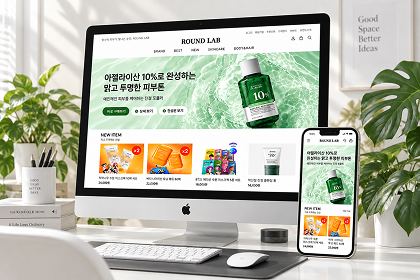
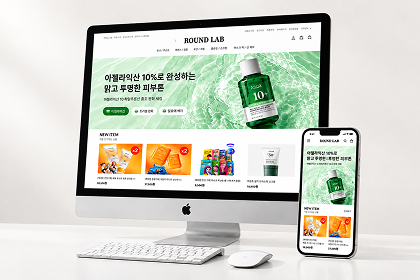
26-10-06(3)

diff --git a/index.html b/index.html
@@ -7,72 +7,27 @@
     <link rel="stylesheet" href="./css/reset.css">
     <link rel="stylesheet" href="./css/font.css">
     <link rel="stylesheet" href="./css/style.css">
+    <link rel="stylesheet" href="./css/modal.css">
     <script src="https://kit.fontawesome.com/195e39de43.js" crossorigin="anonymous"></script>
-
-    <style>
-        .modal-wrap {
-            position: fixed;
-            top: 0;
-            left: 0;
-            right: 0;
-            bottom: 0;
-            z-index: 9999;
-            background-color: rgba(0, 0, 0, 0.8);
-            padding: 100px 20px;
-            overflow-y: auto;
-        }
-        .modal-con {
-            background-color: #fff;
-            padding: 100px 40px;
-            max-width: 1280px;
-            margin: 0 auto;
-        }
-
-        .modal-wrap .btn-close {
-            position: fixed;
-            top: 50px;
-            right: 50px;
-            cursor: pointer;
-            width: 50px;
-            height: 50px;
-            border-radius: 50%;
-            border: none;
-        }
-        .modal-link a {
-            display: block;
-            width: 160px;
-            line-height: 60px;
-            background-color: #eee;
-            text-align: center;
-            border-radius: 10px;
-            margin-bottom: 30px;
-        }
-
-
-        /* 제이쿼리 */
-        .modal-wrap {
-            display: none;
-        }
-    </style>
 </head>
 <body>
+    <header>
+        <nav class="gnb">
+            <ul>
+                <li><a href="#hero">홈</a></li>
+                <li><a href="#about">소개</a></li>
+                <li><a href="#projects">프로젝트</a></li>
+                <li><a href="#contact">연락처</a></li>
+            </ul>
+        </nav>
+    </header>
     <!--main-->
     <main>
-        <section class="hero">
+        <section class="hero" id="hero">
             <div class="hero-bg" aria-hidden="true"></div>
             <div class="hero-particles" aria-hidden="true"></div>
             <div class="hero-line hero-line-1" aria-hidden="true"></div>
             <div class="hero-line hero-line-2" aria-hidden="true"></div>
-            <header>
-                <nav class="gnb">
-                    <ul>
-                        <li><a href="#">홈</a></li>
-                        <li><a href="#">소개</a></li>
-                        <li><a href="#">프로젝트</a></li>
-                        <li><a href="#">연락처</a></li>
-                    </ul>
-                </nav>
-            </header>
             <div class="container">
                 <div class="text-area">
                     <p class="caption">UI/UX WEB DESIGNER PORTFOLIO</p>
@@ -92,7 +47,7 @@
         <!--#main-->
 
         <!--aboutme-->
-        <section class="about-me">
+        <section class="about-me" id="about">
             <div class="container">
                 <div class="tit">
                     <i class="fa-solid fa-circle"></i>
@@ -174,20 +129,20 @@
                             </div>
                             <ul>
                                 <li>
-                                    <img src="./img/skill1.png" alt="Figma">
-                                    <span>Figma</span>
+                                    <img src="./img/skill1.png" alt="Photoshop">
+                                    <span>Photoshop</span>
                                 </li>
                                 <li>
                                     <img src="./img/skill2.png" alt="Illustrator">
                                     <span>Illustrator</span>
                                 </li>
                                 <li>
-                                    <img src="./img/skill3.png" alt="Photoshop">
-                                    <span>Photoshop</span>
+                                    <img src="./img/skill3.png" alt="InDesign">
+                                    <span>InDesign</span>
                                 </li>
                                 <li>
-                                    <img src="./img/skill4.png" alt="InDesign">
-                                    <span>InDesign</span>
+                                    <img src="./img/skill4.png" alt="Figma">
+                                    <span>Figma</span>
                                 </li>
                                 <li>
                                     <img src="./img/skill5.png" alt="HTML">
@@ -198,7 +153,11 @@
                                     <span>CSS</span>
                                 </li>
                                 <li>
-                                    <img src="./img/skill7.png" alt="AI">
+                                    <img src="./img/skill7.png" alt="JavaScript">
+                                    <span>JavaScript</span>
+                                </li>
+                                <li>
+                                    <img src="./img/skill8.png" alt="AI">
                                     <span>AI</span>
                                 </li>
                             </ul>
@@ -322,7 +281,7 @@
         <!--#projects-->
 
         <!--contact-->
-        <section class="contact">
+        <section class="contact" id="contact">
             <div class="container">
                 <div class="tit">
                     <i class="fa-solid fa-circle"></i>

diff --git a/css/style.css b/css/style.css
@@ -19,8 +19,11 @@
     margin: 0 auto;
 }
 section {
-    padding: 8rem 0;
+    padding: 10rem 0 8rem;
     width: 100%;
+}
+.contact {
+    height: 919px;
 }
 html {
     scroll-behavior: smooth;
@@ -28,28 +31,34 @@ html {
 
 
 /* main */
-.hero header {
+
+header {
     width: 100%;
+    height: 6rem;
+
     display: flex;
     justify-content: center;
     align-items: center;
+
+    position: fixed;
+    top: 0;
+    left: 0;
+    z-index: 1000;
+
+    background-color: #fff;
 }
-.hero header .gnb ul {
+header .gnb ul {
     display: flex;
     gap: 10rem;
-    padding-top: 4rem;
 }
-.hero header .gnb li {
-    position: relative;
-}
-.hero header .gnb li a {
+header .gnb li a {
     font-size: 2rem;
     font-weight: 600;
 }
-.hero header .gnb li:hover {
+header .gnb li:hover {
     color: #CD3131;
 }
-.hero header .gnb .on:hover::after {
+header .gnb .on:hover::after {
     content: "";
     position: absolute;
     left: 50%;
@@ -71,7 +80,7 @@ html {
 }
 .hero .text-area {
     padding-left: 10rem;
-    padding-top: 22rem;
+    padding-top: 30rem;
 }
 .hero .text-area p {
     font-weight: 500;
@@ -218,6 +227,9 @@ html {
 .about-me .about-right .info-list .info-item .info-title p {
     font-weight: 600;
 }
+.about-me .about-right .info-list .info-item .info-title .fa-circle {
+    z-index: 1000000;
+}
 .about-me .about-right .info-list .info-item .info-title i {
     font-size: 0.8rem;
 }
@@ -227,11 +239,11 @@ html {
 .about-me .about-right .info-list .info-item::before {
     content: "";
     position: absolute;
-    left: 0.45rem;
+    left: 0.5rem;
     top: 1.4rem;
     width: 1px;
     height: 27rem;
-    background-color: #6E6250;
+    background-color: #D2C7A8;
 }
 .about-me .about-right .info-list .info-item .info-detail {
     display: flex;

diff --git a/css/modal.css b/css/modal.css
@@ -1,0 +1,43 @@
+.modal-wrap {
+            position: fixed;
+            top: 0;
+            left: 0;
+            right: 0;
+            bottom: 0;
+            z-index: 9999;
+            background-color: rgba(0, 0, 0, 0.8);
+            padding: 100px 20px;
+            overflow-y: auto;
+        }
+        .modal-con {
+            background-color: #fff;
+            padding: 100px 40px;
+            max-width: 1280px;
+            margin: 0 auto;
+        }
+
+        .modal-wrap .btn-close {
+            position: fixed;
+            top: 50px;
+            right: 50px;
+            cursor: pointer;
+            width: 50px;
+            height: 50px;
+            border-radius: 50%;
+            border: none;
+        }
+        .modal-link a {
+            display: block;
+            width: 160px;
+            line-height: 60px;
+            background-color: #eee;
+            text-align: center;
+            border-radius: 10px;
+            margin-bottom: 30px;
+        }
+
+
+        /* 제이쿼리 */
+        .modal-wrap {
+            display: none;
+        }
